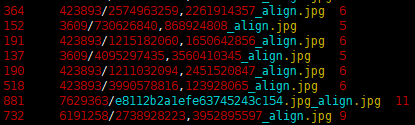
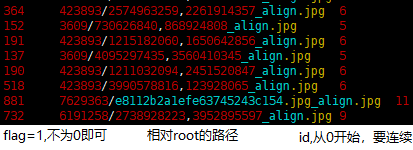
update

diff --git a/README.md b/README.md
@@ -9,6 +9,6 @@
 ###### 执行：
     python im2rec_1root2label.py prefix root --list --reccursive
     python face2rec_angle.py prefix.lst
-list格式如图![](deploy/lst格式.png)  以\t分隔，最后一列是id
+###### list格式如图,中间以tab作为分隔符  ![](deploy/lst格式.png)  
 
 ## 训练  
